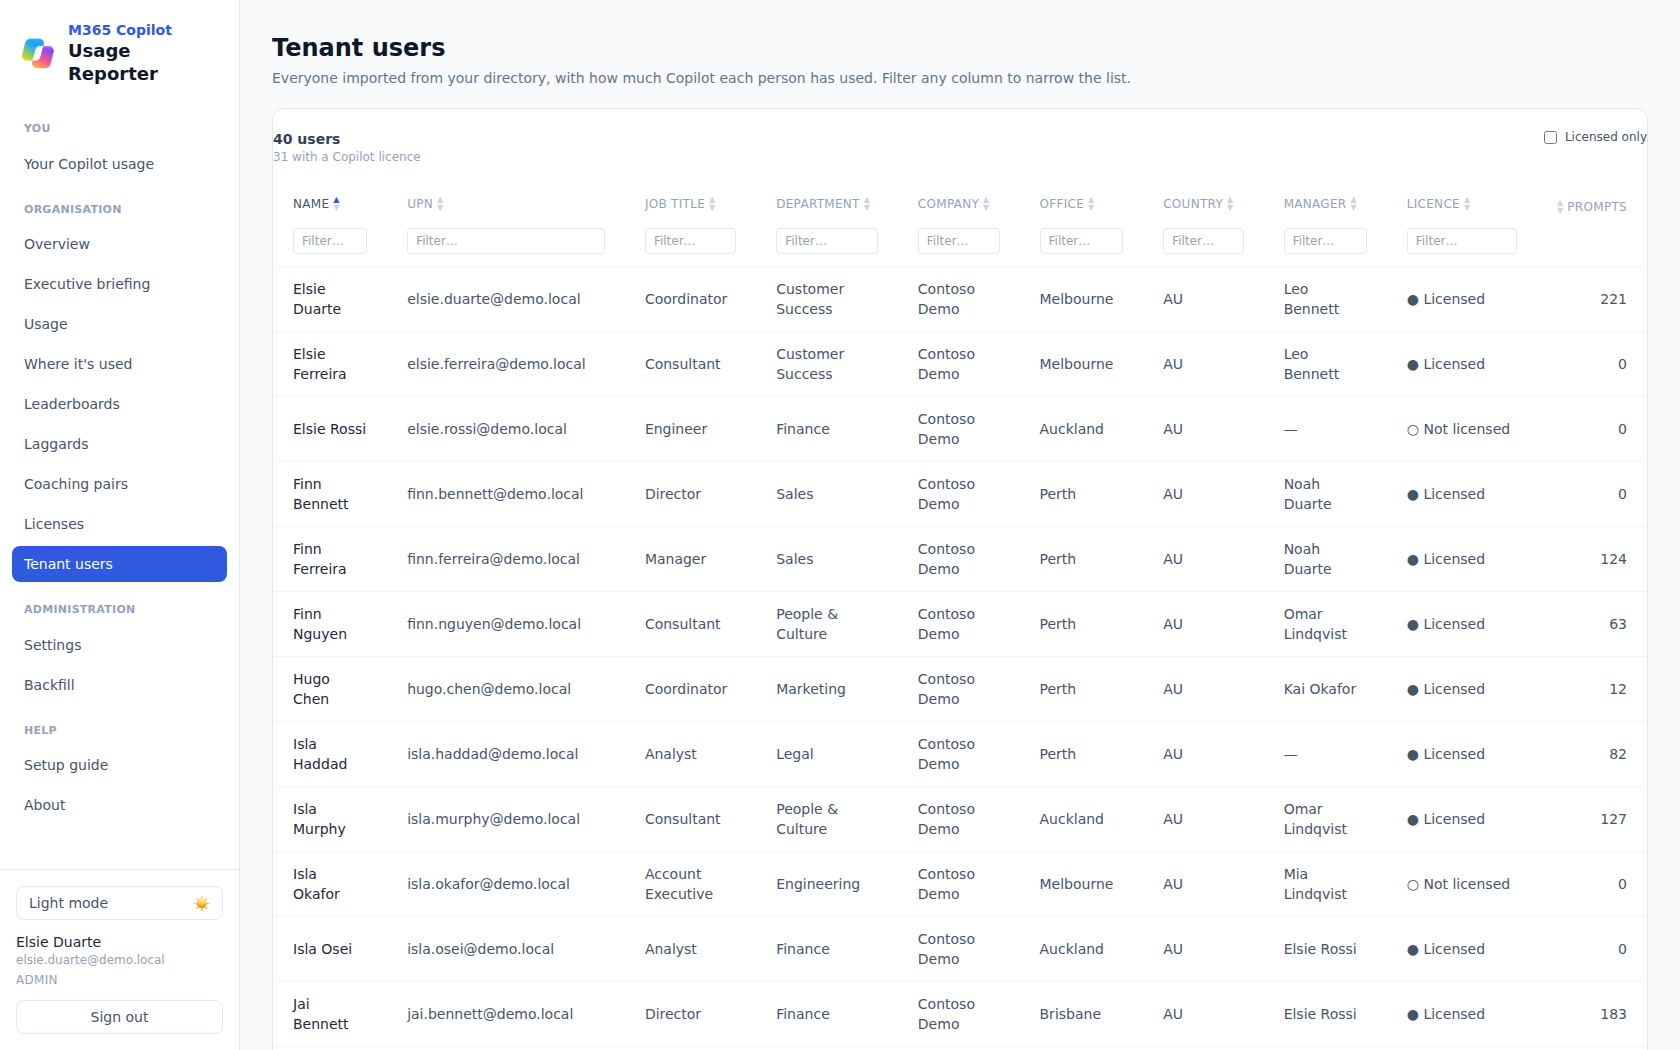
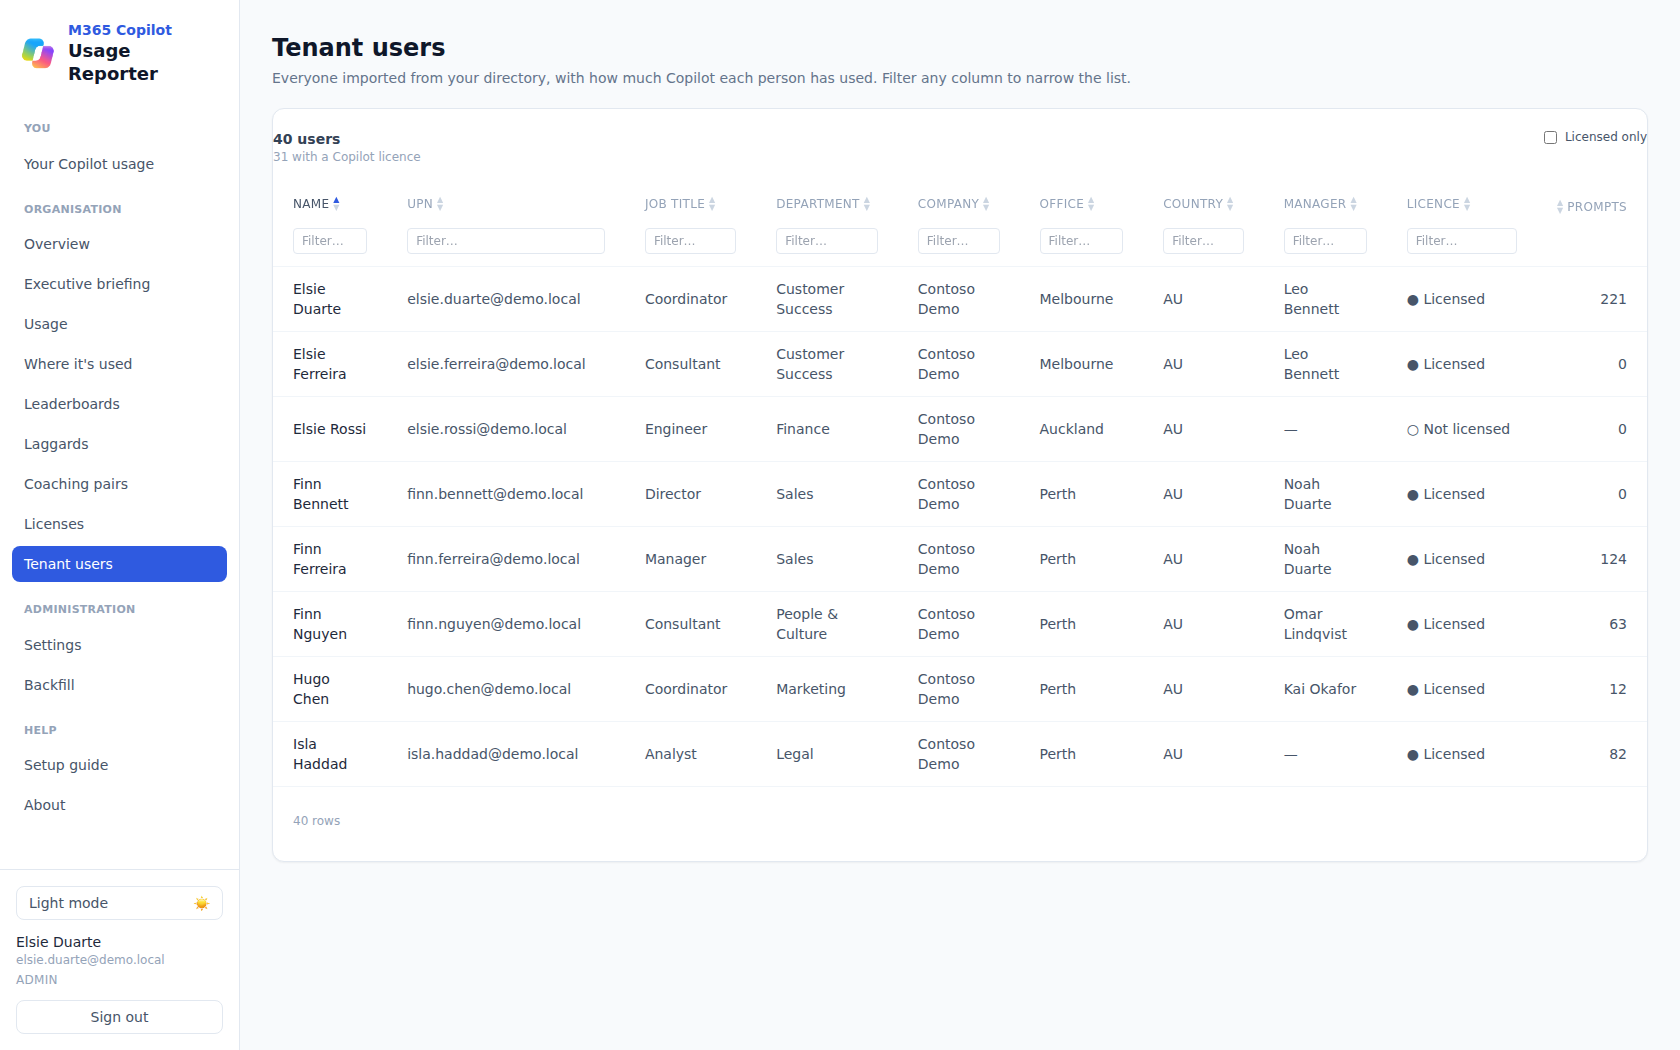
Converge DataTable with the sibling repos, and pin the header on long tables
The Prompt Analyser session merged this component properly rather than
overwriting its copy with mine: it kept the onRowClick and maxBodyHeight
sticky-header support its own pages depend on, and added the filter row on top.
Its file is a strict superset of mine, so mine is replaced by it and the two
repos now hold an identical component — which is the whole point of this pass,
since three diverging DataTables are how the suite got here.

Its version also fixes a bug in mine: the "N of M rows" count sat inside the
scroll container, so on any table with a bounded height it would scroll out of
sight along with the rows it was counting. It now sits outside.

Tenant users takes a bounded height, so the column headers and their filter
boxes stay put while you scroll a directory. Without it, the filters you are
using scroll off the top of the screen exactly when the list is long enough to
need them. Verified in the browser: header pinned at 400px of scroll, row count
outside the scroller.

diff --git a/frontend/src/components/DataTable.tsx b/frontend/src/components/DataTable.tsx
@@ -44,6 +44,10 @@ interface Props<Row> {
   initialSort?: SortState;
   emptyMessage?: string;
   rowClassName?: (row: Row) => string;
+  onRowClick?: (row: Row) => void;
+  /** When set, the table body scrolls within this pixel height and the header
+   * sticks to the top — keeps long tables from pushing the page scrollbar away. */
+  maxBodyHeight?: number;
   /** Show a per-column filter row, and a "N of M rows" count beneath. */
   filterable?: boolean;
 }
@@ -82,6 +86,8 @@ export default function DataTable<Row>({
   initialSort,
   emptyMessage = "No data yet.",
   rowClassName,
+  onRowClick,
+  maxBodyHeight,
   filterable = false,
 }: Props<Row>) {
   const [sort, setSort] = useState<SortState | null>(initialSort ?? null);
@@ -138,10 +144,14 @@ export default function DataTable<Row>({
     a === "right" ? "text-right" : a === "center" ? "text-center" : "text-left";
 
   return (
-    <div className="overflow-x-auto">
+    <>
+    <div
+      className="overflow-auto"
+      style={maxBodyHeight ? { maxHeight: `${maxBodyHeight}px` } : undefined}
+    >
       <table className="w-full text-sm">
-        <thead>
-          <tr className="text-xs uppercase tracking-wide text-slate-400">
+        <thead className={maxBodyHeight ? "sticky top-0 z-10" : undefined}>
+          <tr className="bg-white text-xs uppercase tracking-wide text-slate-400 dark:bg-slate-800">
             {columns.map((col) => {
               const canSort = col.sortable !== false && !!col.accessor;
               const active = sort?.key === col.key;
@@ -173,7 +183,7 @@ export default function DataTable<Row>({
             })}
           </tr>
           {filterable && (
-            <tr>
+            <tr className="bg-white dark:bg-slate-800">
               {columns.map((col) => {
                 const canFilter = col.filterable !== false && !!col.accessor;
                 return (
@@ -209,6 +219,7 @@ export default function DataTable<Row>({
             sortedRows.map((row, i) => (
               <tr
                 key={getRowKey(row, i)}
+                onClick={onRowClick ? () => onRowClick(row) : undefined}
                 className={`border-t border-slate-100 dark:border-slate-700 ${
                   rowClassName?.(row) ?? ""
                 }`}
@@ -235,14 +246,15 @@ export default function DataTable<Row>({
           )}
         </tbody>
       </table>
-      {filterable && rows.length > 0 && (
-        <div className="px-5 py-3 text-xs text-slate-400 dark:text-slate-500">
-          {sortedRows.length === rows.length
-            ? `${rows.length.toLocaleString()} rows`
-            : `${sortedRows.length.toLocaleString()} of ${rows.length.toLocaleString()} rows`}
-        </div>
-      )}
     </div>
+    {filterable && rows.length > 0 && (
+      <div className="px-5 py-3 text-xs text-slate-400 dark:text-slate-500">
+        {sortedRows.length === rows.length
+          ? `${rows.length.toLocaleString()} rows`
+          : `${sortedRows.length.toLocaleString()} of ${rows.length.toLocaleString()} rows`}
+      </div>
+    )}
+    </>
   );
 }
 

diff --git a/frontend/src/pages/UsersPage.tsx b/frontend/src/pages/UsersPage.tsx
@@ -136,6 +136,9 @@ export default function UsersPage() {
           getRowKey={(u) => u.user_id}
           initialSort={{ key: "display_name", dir: "asc" }}
           filterable
+          // A tenant directory is thousands of rows; without this the column
+          // headers and their filter boxes scroll out of reach on the way down.
+          maxBodyHeight={620}
           emptyMessage="No users imported yet. Configure the app registration in Settings, then run a collection."
         />
       </ChartCard>
